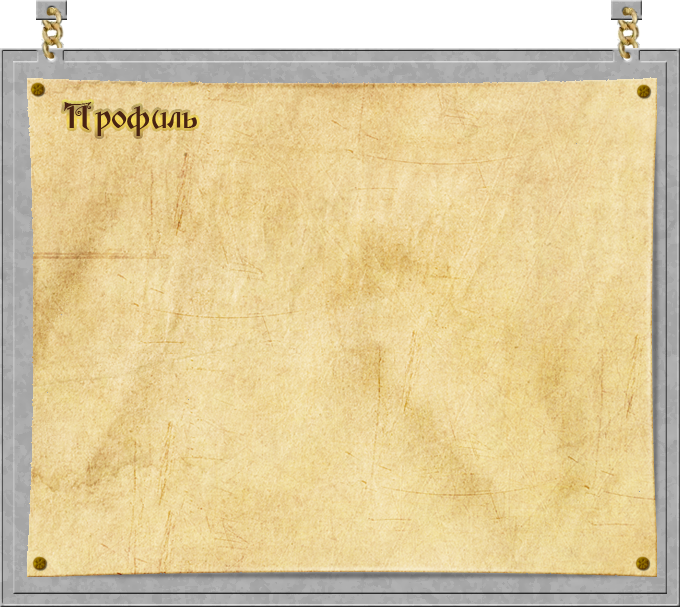
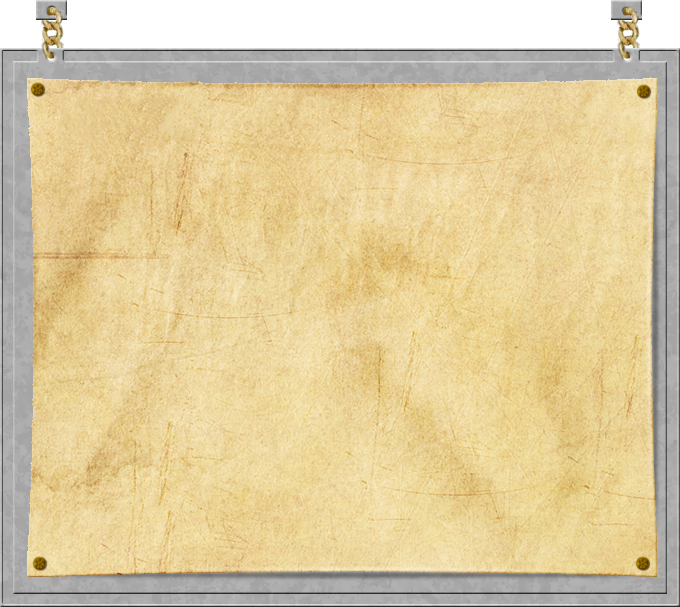
fixes #116

Changed region(s): [[0.0926, 0.1483, 0.3088, 0.2372]]

diff --git a/web/design/css/pregame/profile.css b/web/design/css/pregame/profile.css
@@ -1,3 +1,13 @@
+h3.arena_header {
+  font-family: 'edissonregular', 'Times New Roman', Times, serif;
+  font-size: 40px;
+  position: absolute;
+  top: 110px;
+  color: #482313;
+  left: 70px;
+  text-align: center;
+  text-shadow: 0px -2px 3px #CEAC27;
+}
 .profile {
 	background:  url(../../images/pregame/profile_mcont_bg.png) top left  no-repeat;
 	width:588px;

diff --git a/web/site/myprofile.php b/web/site/myprofile.php
@@ -111,6 +111,7 @@
 <body>
 	<div id="wrap" class="profile">
 		<div id="profile">
+			<h3 class="arena_header"><?= L::profile_profile ?></h3>
 		  <form action="" method="post" enctype="multipart/form-data">
 			  <span class="title"> - <?= L::profile_great_lord ?> <p class="nick"><?php echo $user['login']; ?></p></span>
 			  <br clear="all" />

diff --git a/web/site/profile.php b/web/site/profile.php
@@ -59,6 +59,7 @@
 <body>
 	<div id="wrap" class="profile">
 		<div id="profile">
+			<h3 class="arena_header"><?= L::profile_profile ?></h3>
 		  <form action="" method="post" enctype="multipart/form-data">
 			  <span class="title"> - Великий Лорд <p class="nick"><?php echo $user['login']; ?></p></span>
 			  <br clear="all" />

diff --git a/web/general_config/config.php b/web/general_config/config.php
@@ -15,7 +15,7 @@ $DB_conf['server'] = 'db';
 $SITE_conf['domen'] = 'http://'.$_ENV['LORDS_DOMAIN'].'/';
 $SITE_conf['mantis'] = 'http://mantis.kissdesign.com.ua';
 $SITE_conf['ai_service'] = 'http://ai:5600/ai?wsdl';
-$SITE_conf['revision'] = $_ENV['REVISION'];;
+$SITE_conf['revision'] = $_ENV['REVISION'];
 
 // Lang
 $i18n = new i18n();
